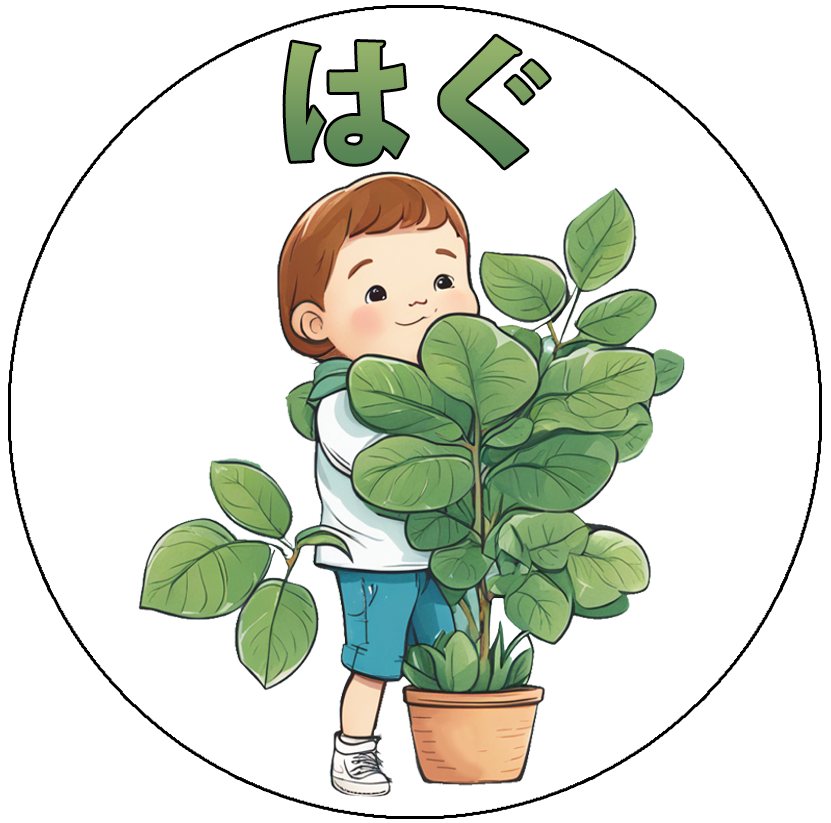
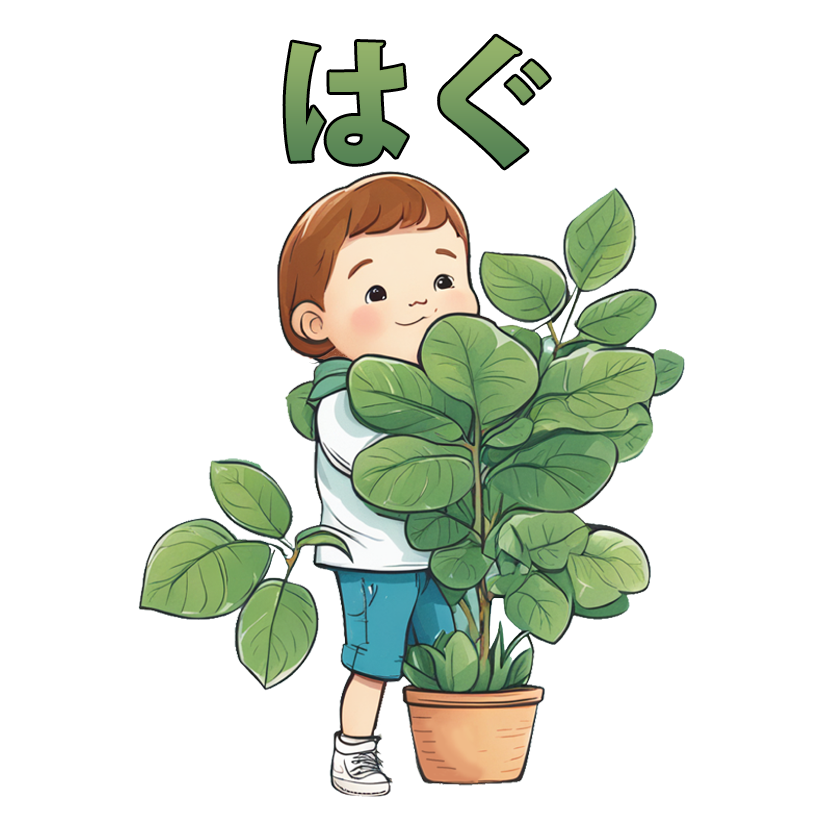
SignInとりあえず実装

diff --git a/frontend/src/pages/SignIn/SignIn.tsx b/frontend/src/pages/SignIn/SignIn.tsx
@@ -1,22 +1,18 @@
-import { Button, Flex } from "@mantine/core";
+import { Button, Flex, Image } from "@mantine/core";
 import "./SignIn.css";
 
 export const SignIn = () => {
   return (
-    <Flex direction="column" bg={"#E2D9C1"} style={{ height: "100vh" }}>
+    <Flex direction="column"  style={{ height: "100vh" }}>
       <img
         className="sign_in_icon"
         src="./images/haguSignIn.png"
-        width={"80%"}
+        width={"400vw"}
       ></img>
-      <div className="logIn" >
-        <Button fullWidth size="compact-xl" color="green" radius="xs">
-          Lineでログイン
-        </Button>
-        <text className="sign_in_text">────サインイン────</text>
-        <Button fullWidth size="compact-xl" color="green" radius="xs">
-          Line登録
-        </Button>
+      <div className="logIn">
+          <a href="/api/auth">
+          <img  src={"./images/btn_base.png"}/>
+          </a>
       </div>
     </Flex>
   );
